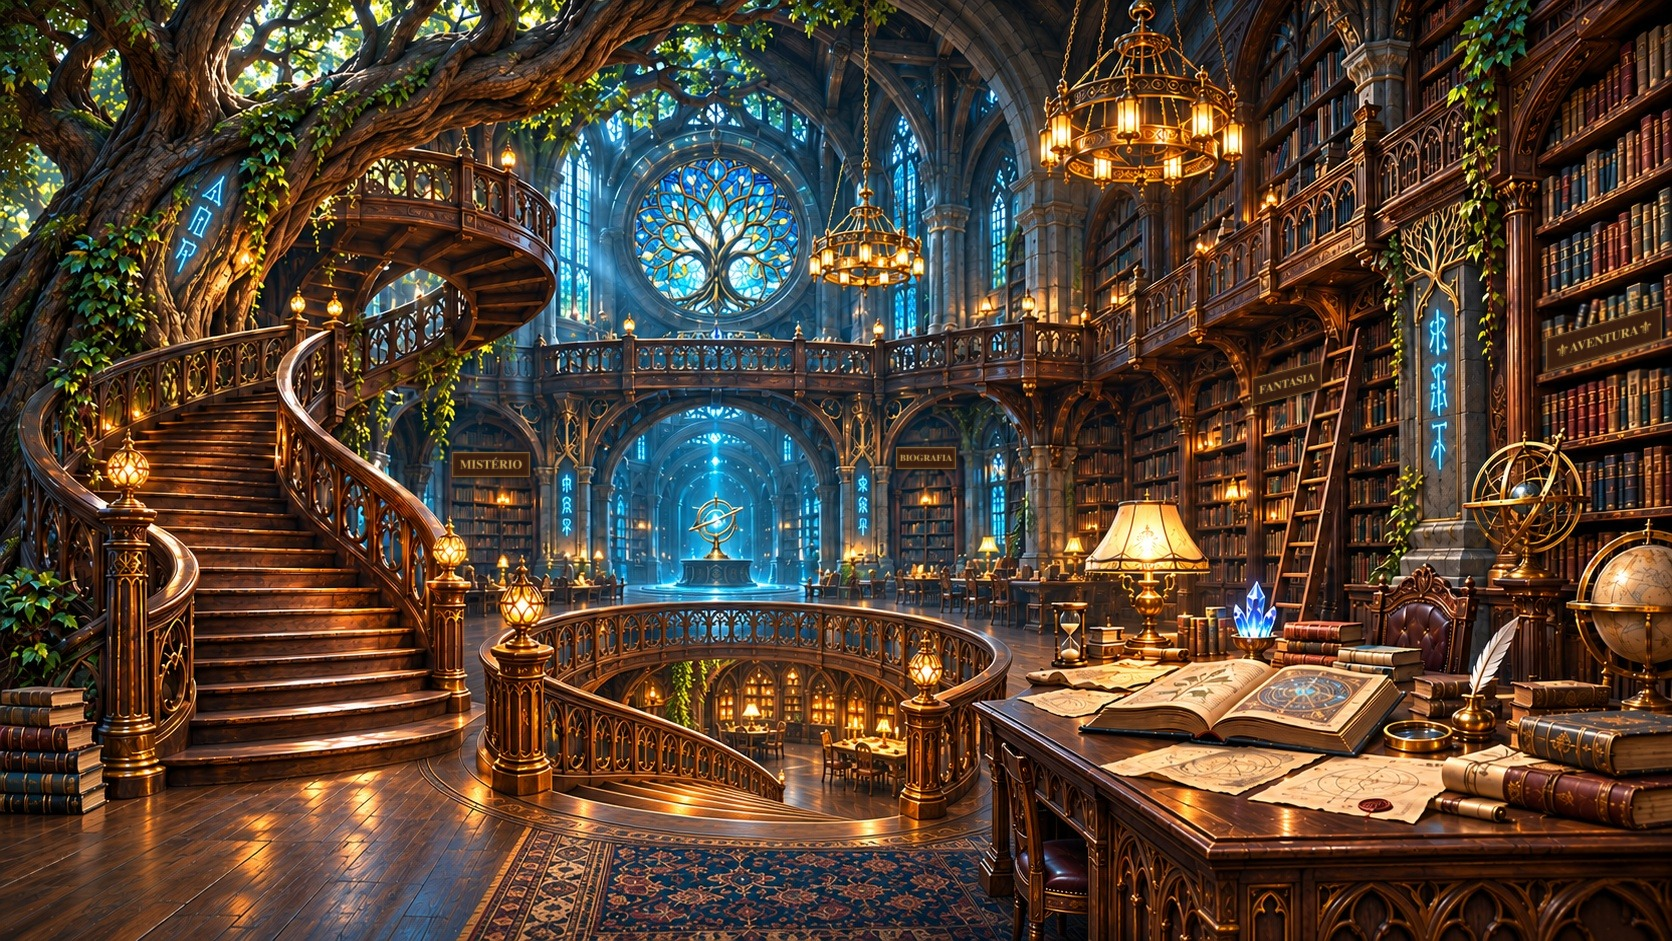
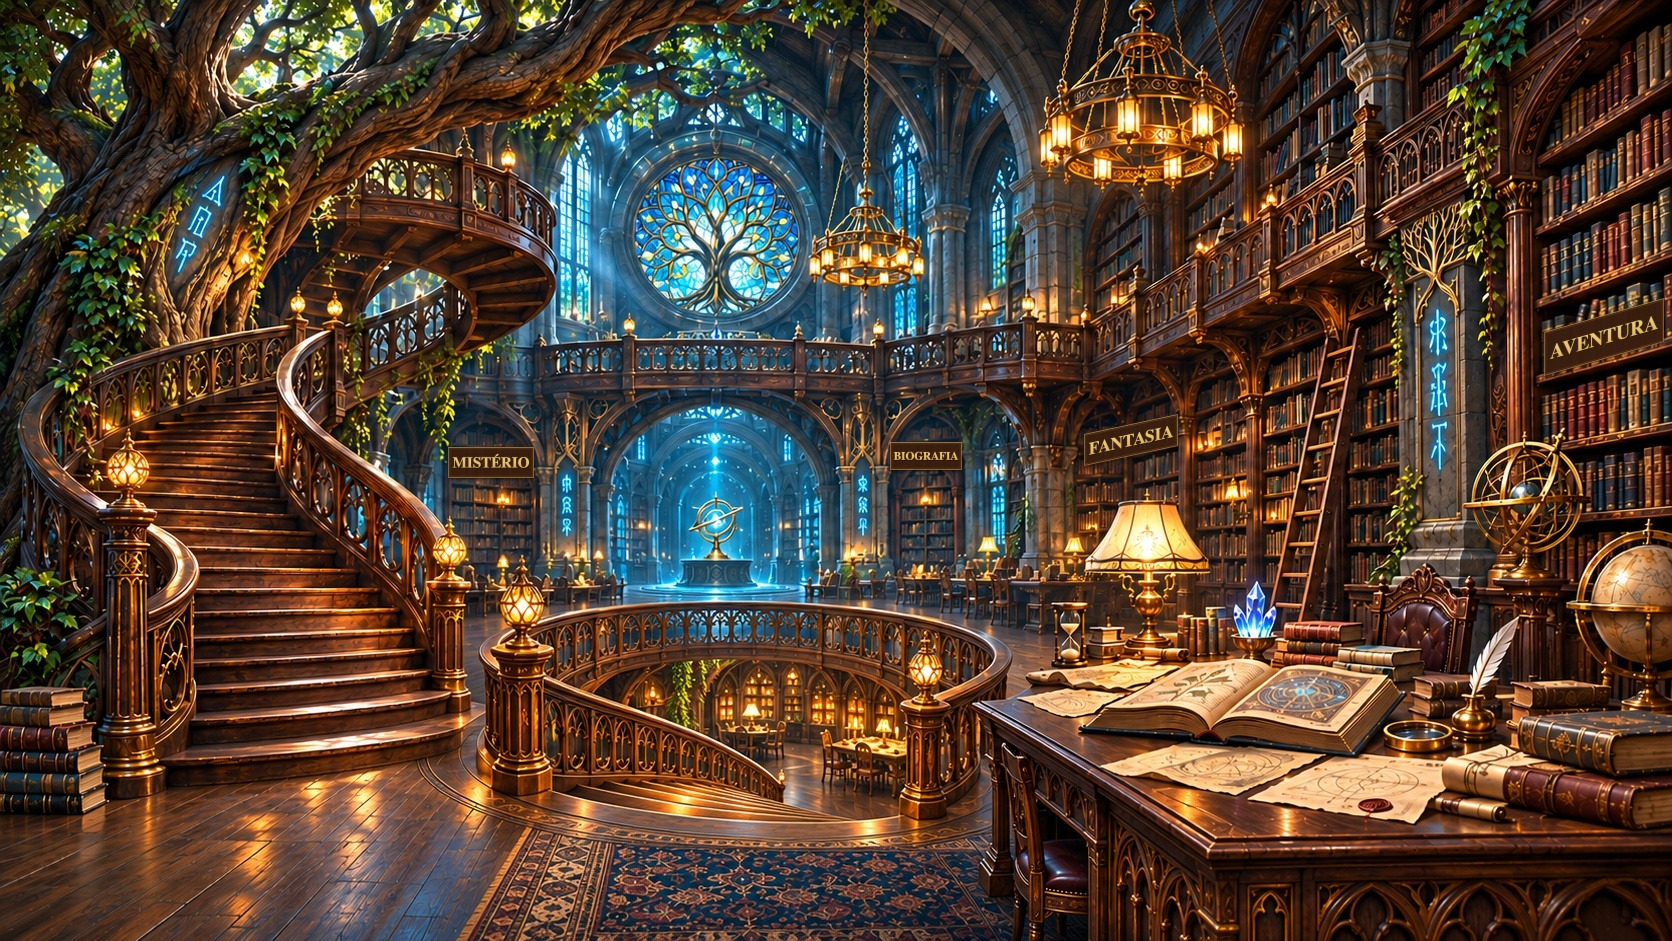
feat(home): hand-drawn outline of the steps going down; larger, more legible second-floor plaques; Fantasia moved to the next bay on the left
Claude-Session: https://claude.ai/code/session_01DfVYttBvCAdgqZi4Ho1Khn

diff --git a/frontend/src/features/home/config.ts b/frontend/src/features/home/config.ts
@@ -134,14 +134,20 @@ const UPSTAIRS: Room = {
   signs: true,
   // painted category plaques of the second floor (same look as the ground floor): two on the right bookcases, two at the back
   shelves: [
-    { id: "sign-fantasia", category: "fantasia", rotate: 0, skewY: 0, ...traced([[1252, 378], [1322, 361], [1322, 389], [1252, 406]], UPSTAIRS_PX) },
-    { id: "sign-aventura", category: "aventura", rotate: 0, skewY: 0, ...traced([[1546, 338], [1662, 306], [1662, 340], [1546, 372]], UPSTAIRS_PX) },
-    { id: "sign-misterio", category: "misterio", rotate: 0, skewY: 0, ...traced([[452, 452], [530, 452], [530, 477], [452, 477]], UPSTAIRS_PX) },
-    { id: "sign-biografia", category: "biografia", rotate: 0, skewY: 0, ...traced([[896, 447], [956, 447], [956, 469], [896, 469]], UPSTAIRS_PX) },
+    { id: "sign-fantasia", category: "fantasia", rotate: 0, skewY: 0, ...traced([[1084, 434], [1178, 414], [1178, 446], [1084, 466]], UPSTAIRS_PX) },
+    { id: "sign-aventura", category: "aventura", rotate: 0, skewY: 0, ...traced([[1544, 332], [1664, 298], [1664, 342], [1544, 376]], UPSTAIRS_PX) },
+    { id: "sign-misterio", category: "misterio", rotate: 0, skewY: 0, ...traced([[448, 447], [534, 447], [534, 478], [448, 478]], UPSTAIRS_PX) },
+    { id: "sign-biografia", category: "biografia", rotate: 0, skewY: 0, ...traced([[890, 442], [962, 442], [962, 470], [890, 470]], UPSTAIRS_PX) },
   ],
   portals: [
-    // the round stairwell with its balustrade, in the floor: the way back down (clickable along its outline, traced on the 1672x941 picture)
-    { id: "staircase-down", to: "library", label: "Descer ao andar de baixo", glow: true, rotate: 0, skewY: 0, ...traced([[520, 590], [560, 603], [640, 603], [740, 603], [840, 606], [940, 612], [982, 645], [990, 690], [965, 745], [952, 790], [925, 815], [850, 822], [740, 820], [640, 812], [560, 795], [500, 775], [480, 740], [478, 690], [490, 640]], UPSTAIRS_PX) },
+    // the steps that go down through the round stairwell in the floor: the way back down (clickable along the outline drawn by hand on the 1672x941 picture)
+    { id: "staircase-down", to: "library", label: "Descer ao andar de baixo", glow: true, rotate: 0, skewY: 0, ...traced([
+        [543, 676], [542, 738], [544, 759], [548, 762], [551, 771], [551, 789],
+        [549, 791], [562, 793], [567, 797], [601, 803], [608, 807], [625, 807],
+        [647, 813], [664, 813], [692, 820], [831, 825], [816, 812], [797, 805],
+        [790, 806], [783, 801], [783, 783], [768, 770], [736, 750], [687, 727],
+        [679, 726], [658, 716], [614, 702], [593, 692], [576, 688], [547, 674],
+    ], UPSTAIRS_PX) },
   ],
 };
 
